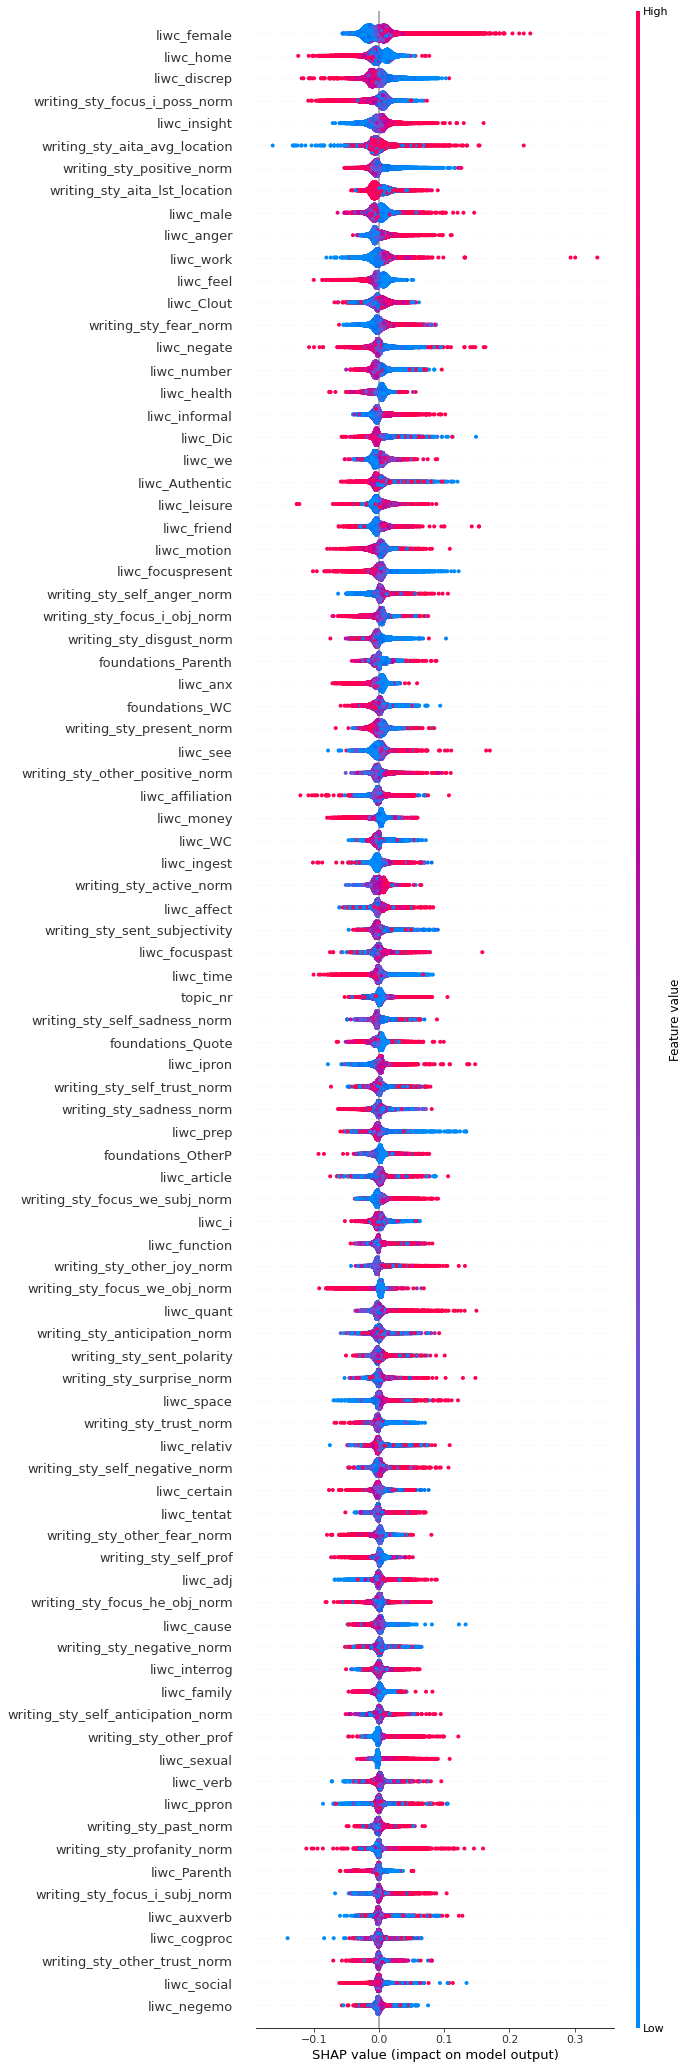
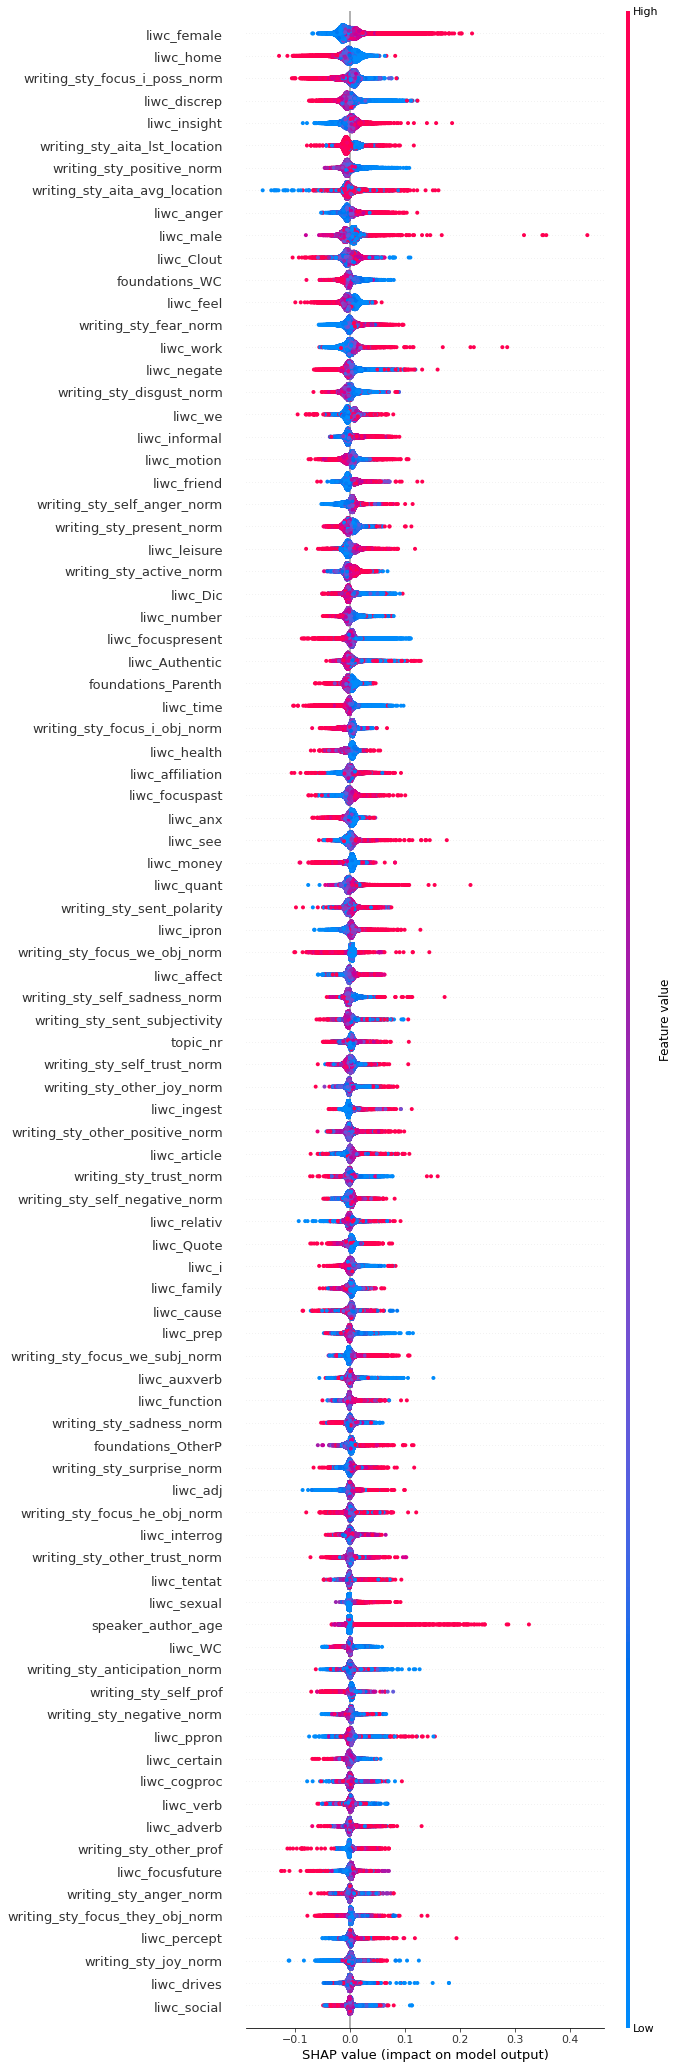
scaling

Changed region(s): [[0.031, 0.0, 0.3407, 0.9899], [0.4336, 0.0, 0.8053, 1.0], [0.9292, 0.0, 0.9602, 0.0309]]

diff --git a/feature_analysis/post_modification/server.py b/feature_analysis/post_modification/server.py
@@ -1,6 +1,12 @@
 
-
+import constants as CS
+from feature_functions.speaker_features import get_author_age_and_gender
+from feature_functions.writing_style_features import get_spacy_features, get_punctuation_count, get_emotions, aita_location, get_profanity_count, check_wibta
+from feature_functions.topic_modelling import *
+from helpers.process_helper import process_run
+from helpers.globals_loader import load_spacy
 from functools import reduce
+from sklearn import preprocessing
 import sys
 import os
 import spacy
@@ -16,13 +22,6 @@ app = Flask(__name__)
 
 p = os.path.abspath('../../feature_extraction')
 sys.path.insert(1, p)
-
-import constants as CS
-from feature_functions.speaker_features import get_author_age_and_gender
-from feature_functions.writing_style_features import get_spacy_features, get_punctuation_count, get_emotions, aita_location, get_profanity_count, check_wibta
-from feature_functions.topic_modelling import *
-from helpers.process_helper import process_run
-from helpers.globals_loader import load_spacy
 
 LIWC_EXE_PATH = "LIWC-22-cli"
 LIWC_IN = "./post_to_analyse.csv"
@@ -160,33 +159,35 @@ def getPrediction(df):
 
     clf = xgb.XGBRegressor()
     clf.load_model(XGB_PATH)
-
-    y_pred = clf.predict(df)
+    scaled = preprocessing.StandardScaler().fit_transform(df.values)
+    y_pred = clf.predict(scaled)
     return y_pred
 
 
 @app.route('/', methods=['GET', 'POST'])
 def index():
     data = [
-                {
-                    "ahr_old": "",
-                    "text_old":"",
-                    "ahr_new": "",
-                    "text_new":"",
-                    "model_me": "",
-                    "liwc_error": "",
-                    "changedFeatures": ""
-                }
-            ]
-    
+        {
+            "ahr_old": "",
+            "text_old": "",
+            "ahr_new": "",
+            "text_new": "",
+            "model_me": "",
+            "liwc_error": "",
+            "changedFeatures": ""
+        }
+    ]
+
     if request.method == 'POST':
         if request.form['submit_posts'] == 'Analyze':
 
-            df_old, is_down_old = getFeatureValues(request.form['old_post'].strip())
+            df_old, is_down_old = getFeatureValues(
+                request.form['old_post'].strip())
             df_old = reorderColumns(df_old)
             y_old = getPrediction(df_old)
 
-            df_new, is_down_new = getFeatureValues(request.form['new_post'].strip())
+            df_new, is_down_new = getFeatureValues(
+                request.form['new_post'].strip())
             df_new = reorderColumns(df_new)
             y_new = getPrediction(df_new)
 
@@ -211,7 +212,7 @@ def index():
             data = [
                 {
                     "ahr_old": y_old,
-                    "text_old":request.form['old_post'].strip(),
+                    "text_old": request.form['old_post'].strip(),
                     "ahr_new": y_new,
                     "text_new":request.form['new_post'].strip(),
                     "model_me": MODEL_ME,
